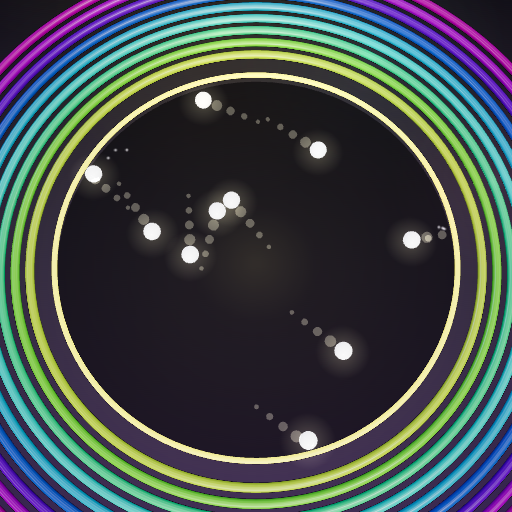
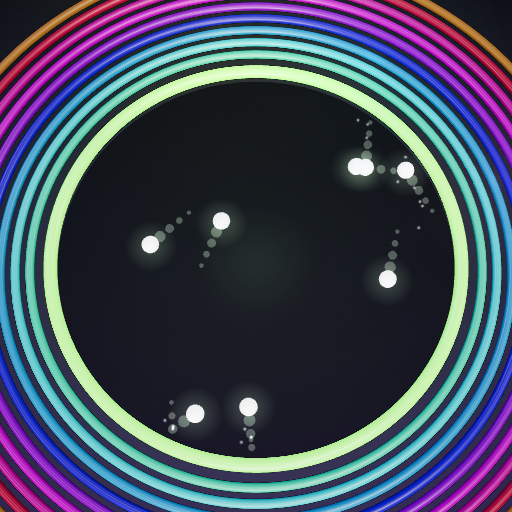
お金は当たるたびに1円だけ・値段はゆるやかに上がる形に（後半も強化が続き、いつ攻撃力に回すかで差が出る）
Claude-Session: https://claude.ai/code/session_01JQ3Fv9Zij4SWy1X7Q6BT87

diff --git a/sim.js b/sim.js
@@ -1,21 +1,19 @@
 // 円：120秒でボールが円をこわすゲームの計算（毎回同じ結果になるよう、足し算・かけ算・割り算・平方根だけを使う）
+// お金は「当たるたびに1」だけ。ボールと速さは当たる回数（＝お金）をふやし、攻撃力は円を早くこわす
 // 画面・ランキングの確かめ・試験で同じものを使う
 const DIRS = [0.9323273456060345,0.361615431964962,-0.9317368833787797,0.36313410766767457,0.44174021511636763,-0.897143011090732,0.28028590973391687,0.9599165634598825,-0.8550884287196865,-0.5184821878036869,0.9807452809516597,-0.1952913052110873,-0.5912536662721762,0.8064856490475885,-0.10880117583403968,-0.9940635312378834,0.7517068681888761,0.6594973724873145,-0.9997693242463568,0.021477855944742892,0.7226907017244365,-0.6911715775703176,-0.06600993961000451,0.9978189654805543,-0.6253433514999432,-0.7803497246330124,0.9882273906285018,0.15299223644218812,-0.8320328931280654,0.5547262971528765,0.2388029312316933,-0.9710680511865022,0.47986119415980505,0.8773444217293035,-0.9464723519735712,-0.3227848926911179,0.9159373184539963,-0.4013213533607482,-0.40429499382340517,0.9146286448440879,-0.3197082264375042,-0.9475160420532127,0.8757807863046733,0.4827090369358836,-0.9718387652425429,0.23564680004585165,0.5574265336951565,-0.8302262700809958,0.14978080971877986,0.9887192265956937,-0.7783139489351489,-0.6278753036176644,0.9980281569192574,-0.06276781019240862,-0.6935158557811112,0.7204413631796782,0.02472586009443173,-0.9996942691856299,0.6570516963464166,0.7538455202017827,-0.9937048044432475,-0.11203018176548371,0.8084022972402933,-0.5886303813231325];
 const ROT = [0.9427546655283462,-0.3334870921408144,0.9689124217106447,-0.24740395925452294,0.9855847669095608,-0.16918234906699603,0.9959527330119943,-0.08987854919801104,0.9992001066609779,0.03998933418663416,0.9939560979566968,0.10977830083717481,0.9820042351172703,0.18885889497650057,0.9637708963658905,0.26673143668883115,0.9358968236779348,0.35227423327508994];
 export const HZ = 60, SECS = 120, TICKS = HZ * SECS;
 export const R = 1, BR = 0.045;
-export const MAXB = 30, MAXS = 12, MAXA = 40;
+export const MAXB = 30, MAXS = 12, MAXA = 999;
 const V0 = 2.1, VK = 1.13;
-// 円ごとの体力
-export function hpOf(k) { let h = 6; for (let i = 0; i < k; i++) h *= 1.2; return Math.ceil(h); }
-// 攻撃力
-export function dmgOf(L) { let d = 1 + L; for (let i = 0; i < L; i++) d *= 1.06; return Math.floor(d); }
-// 強化の値段（0：ボール、1：速さ、2：攻撃力）
-const BASE = [6, 4, 5], GROW = [1.42, 1.55, 1.38];
-export function costOf(type, L) { let c = BASE[type]; for (let i = 0; i < L; i++) c *= GROW[type]; return Math.floor(c); }
+// 円ごとの体力（外側の円ほど多い）
+export function hpOf(k) { return 6 + 4 * k + 2 * k * k; }
+// 攻撃力（1回当たるとへる体力）
+export function dmgOf(L) { return 1 + L + ((L * L) >> 2); }
+// 強化の値段（0：ボール、1：速さ、2：攻撃力）。買うほど上がる
+export function costOf(type, L) { const n = L + 1; return type === 0 ? n * n + 2 : type === 1 ? 2 * n * n + 2 : n * n + 1; }
 export const maxOf = type => type === 0 ? MAXB - 1 : type === 1 ? MAXS : MAXA;
-// 円をこわしたときのごほうび
-export const bonusOf = k => 3 + k * 2;
 export function create() {
   const s = { tick: 0, coins: 0, k: 0, hp: hpOf(0), hp0: hpOf(0), lv: [0, 0, 0], v: V0 / HZ, balls: [], rng: 0x9e3779b9 | 0, hits: 0, ev: [] };
   addBall(s); return s;
@@ -42,7 +40,7 @@ export function step(s) {
         let rx = vx * c - vy * sn, ry = vx * sn + vy * c;
         if (rx * nx + ry * ny > -0.25 * s.v) { rx = vx; ry = vy; } // 壁に沿いすぎないように
         b.vx = rx; b.vy = ry; s.hits++; s.coins += 1; s.hp -= dmg; s.ev.push(i, nx, ny);
-        if (s.hp <= 0) { s.coins += bonusOf(s.k); s.k++; s.hp = s.hp0 = hpOf(s.k); s.ev.push(-1, s.k, 0); }
+        if (s.hp <= 0) { s.k++; s.hp = s.hp0 = hpOf(s.k); s.ev.push(-1, s.k, 0); }
       }
       b.x = nx * lim; b.y = ny * lim;
     }

diff --git a/main.js b/main.js
@@ -282,7 +282,7 @@ $('vidBtn').onclick = () => { if (!vidBusy && FIN) makeVideo(); };
 $('vBack').onclick = () => { showResult(false); };
 function makeImage() {
   const F = FIN, W = 1080, Hh = 1350; const c = document.createElement('canvas'); c.width = W; c.height = Hh; const g2 = c.getContext('2d');
-  R.setPixelRatio(1); R.setSize(W, Hh, false); setCam(W, Hh, 190, Hh * .43, 1); viewSync(G, 0); R.render(SC, CAM); g2.drawImage(R.domElement, 0, 0, W, Hh); drawHP(g2, W, Hh, G); drawBrand(g2, W, Hh); drawCard(g2, W, Hh, F, 1, Hh * .6);
+  R.setPixelRatio(1); R.setSize(W, Hh, false); setCam(W, Hh, 150, Hh * .41, 1.22); viewSync(G, 0); R.render(SC, CAM); g2.drawImage(R.domElement, 0, 0, W, Hh); drawHP(g2, W, Hh, G); drawBrand(g2, W, Hh); drawCard(g2, W, Hh, F, 1, Hh * .6);
   c.toBlob(b => { shareDone(b, 'png'); }, 'image/png');
 }
 async function makeVideo() {
@@ -302,9 +302,9 @@ async function makeVideo() {
   const CARD = 3.4;
   await new Promise(res => {
     function step(now) {
-      const dt = Math.min(.05, (now - last) / 1000); last = now; T += dt; TIME += dt;
+      const real = Math.min(.3, (now - last) / 1000), dt = Math.min(.05, real); last = now; T += real; TIME += dt;
       if (endAt < 0) {
-        a2 += dt * SPEED; let n = Math.floor(a2 * HZ); a2 -= n / HZ; if (n > 40) n = 40; V.budget = 14;
+        a2 += real * SPEED; let n = Math.floor(a2 * HZ); a2 -= n / HZ; if (n > 200) n = 200; V.budget = 14; // おそい端末でも、動画の長さが同じになるようにする
         for (let q = 0; q < n && s.tick < TICKS; q++) { while (j < F.log.length && F.log[j][0] === s.tick) { S.buy(s, F.log[j][1]); j++; } S.step(s); handleEv(s); }
         if (s.tick >= TICKS) { endAt = T; sFin(); fxConfetti(clamp(F.k * 3, 20, 140)); setCam(W, Hh, 110, Hh * .42, 1); }
       }
@@ -398,8 +398,8 @@ async function openRank(when, from) {
   const box = $('rankBox'); box.innerHTML = '<p>' + t('loading') + '</p>';
   const rowH = (r, me) => '<tr' + (me ? ' class="me"' : '') + '><td class="r">' + r.rk + '</td><td class="n">' + esc(r.n) + '</td><td class="c">' + esc(t('rowS', { n: r.rings, p: r.pct })) + '</td></tr>';
   try {
-    let rows; if (NONET) { rows = [{ n: '円こわし名人', rings: 52, pct: 31, rk: 1 }, { n: ls.get('en_name', 'なすび'), rings: 47, pct: 80, rk: 2, me: 1 }, { n: 'のんびり', rings: 33, pct: 5, rk: 3 }]; } else rows = await loadBoard(when);
-    RK.rows = rows; const myId = (ls.get('en_auth', null) || {}).uid; let h = '<table class="rank">' + rows.slice(0, TOPN).map(r => rowH(r, r.me || r.id === myId)).join(''); if (!rows.length) h += '<tr><td></td><td colspan="2">' + t('empty') + '</td></tr>'; box.innerHTML = h + '</table>';
+    let rows; if (NONET) { rows = [{ n: '円こわし名人', rings: 72, pct: 31, rk: 1 }, { n: ls.get('en_name', 'なすび'), rings: 64, pct: 80, rk: 2, me: 1 }, { n: 'のんびり', rings: 41, pct: 5, rk: 3 }]; } else rows = await loadBoard(when);
+    RK.rows = rows; const myId = (ls.get('en_auth', null) || {}).uid; let h = '<table class="rank">' + rows.slice(0, TOPN).map(r => rowH(r, r.me || (!!myId && r.id === myId))).join(''); if (!rows.length) h += '<tr><td></td><td colspan="2">' + t('empty') + '</td></tr>'; box.innerHTML = h + '</table>';
   } catch (e) { box.innerHTML = '<p>' + t('rankerr') + '</p>'; }
 }
 $('rankBack').onclick = () => { if (RK.from === 'fin' && FIN) showResult(false); else showTitle(); };

diff --git a/tx.js b/tx.js
@@ -3,7 +3,7 @@ export const LANGS = [['ja', '日本語'], ['en', 'English'], ['zh', '繁中'], 
 export const TX = {
  ja: {
  hud: '円', title: '円', sub: '120秒で、円をいくつこわせるか',
- how: 'ボールが当たるたびに、円の体力がへる。<br>当たるとお金（円）がたまるので、<b>ボールの数・速さ・攻撃力</b>を強化しよう。<br>いつ何を強化するかで、結果が変わる。',
+ how: 'ボールが当たるたびに、円の体力がへって、お金が1円たまる。<br><b>ボール・速さ</b>はお金がたまりやすくなり、<b>攻撃力</b>は円を早くこわせる。<br>いつ、何を強化するかで結果が変わる。',
  start: 'スタート', rank: 'ランキング', go: 'スタート！', fin: 'そこまで！',
  timeL: 'のこり', ringsL: 'こわした円', unit: '個', coin: '円',
  upB: 'ボール', upS: '速さ', upA: '攻撃力', upBv: '{n}個', upSv: 'Lv{n}', upAv: '{n}', max: 'MAX',
@@ -20,7 +20,7 @@ export const TX = {
  },
  en: {
  hud: 'EN', title: '円', sub: 'How many rings can you break in 120 seconds?',
- how: 'Every hit takes HP off the ring.<br>Hits earn coins, so upgrade your <b>ball count, speed and power</b>.<br>What you upgrade, and when, changes the result.',
+ how: 'Every hit takes HP off the ring and earns 1 coin.<br><b>Balls and Speed</b> earn coins faster; <b>Power</b> breaks rings faster.<br>What you upgrade, and when, changes the result.',
  start: 'Start', rank: 'Ranking', go: 'GO!', fin: 'TIME!',
  timeL: 'Time', ringsL: 'Rings broken', unit: '', coin: '',
  upB: 'Balls', upS: 'Speed', upA: 'Power', upBv: '×{n}', upSv: 'Lv{n}', upAv: '{n}', max: 'MAX',
@@ -37,7 +37,7 @@ export const TX = {
  },
  zh: {
  hud: '円', title: '円', sub: '120秒內，能打碎幾個圓？',
- how: '球每撞一次，圓的體力就減少。<br>撞到就能賺錢，拿來強化<b>球數・速度・攻擊力</b>。<br>什麼時候強化什麼，結果就會不同。',
+ how: '球每撞一次，圓的體力就減少，並賺到1円。<br><b>球數・速度</b>讓錢賺得更快，<b>攻擊力</b>讓圓碎得更快。<br>什麼時候強化什麼，結果就會不同。',
  start: '開始', rank: '排行榜', go: '開始！', fin: '時間到！',
  timeL: '剩餘', ringsL: '打碎的圓', unit: '個', coin: '円',
  upB: '球數', upS: '速度', upA: '攻擊力', upBv: '{n}顆', upSv: 'Lv{n}', upAv: '{n}', max: 'MAX',
@@ -54,7 +54,7 @@ export const TX = {
  },
  ko: {
  hud: '円', title: '円', sub: '120초 동안 원을 몇 개 부술 수 있을까',
- how: '공이 부딪힐 때마다 원의 체력이 줄어든다.<br>부딪히면 돈이 쌓이니 <b>공 개수·속도·공격력</b>을 강화하자.<br>언제 무엇을 강화하느냐에 따라 결과가 달라진다.',
+ how: '공이 부딪힐 때마다 원의 체력이 줄고 1円이 쌓인다.<br><b>공·속도</b>는 돈이 더 빨리 쌓이고, <b>공격력</b>은 원을 더 빨리 부순다.<br>언제 무엇을 강화하느냐에 따라 결과가 달라진다.',
  start: '시작', rank: '랭킹', go: '시작!', fin: '거기까지!',
  timeL: '남은 시간', ringsL: '부순 원', unit: '개', coin: '円',
  upB: '공', upS: '속도', upA: '공격력', upBv: '{n}개', upSv: 'Lv{n}', upAv: '{n}', max: 'MAX',
